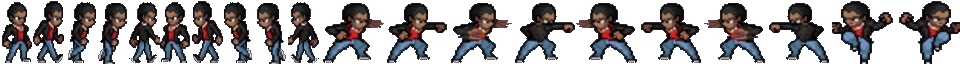
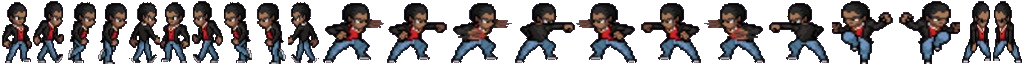
Added hurt for enemies
- Hurt frame is displayed when enemy is hit similar to that of the
knight
- Enemy is unable to attack during this state of hurt
- Also implemented for boss class since the appropriate sprite sheet
when available will have an identical layout and size

diff --git a/main.js b/main.js
@@ -128,9 +128,7 @@ var knight = {
         // 	ATTACKING ANIMATION **************************************************************************
         // Update hero animation
         this.lastAttack += elapsed;
-        if (this.isAttacking) {
-            //walking===true so animation continues to completion of current cycle
-            //so that frame isn't frozen midcycle by still condition
+        if (this.isAttacking && !this.isHurt) {
             this.attackTimer += elapsed;
             if (this.attackTimer >= this.animDelay) {
                 // Enough time has passed to update the animation frame
@@ -143,16 +141,20 @@ var knight = {
                     this.lastAttack = 0;
                     this.isAttacking = false;
                      //Check if any enemies are in the range of the attack
-                    for (var i = 0; i < enemies.length; i++) {
-                            if (enemies[i].alive && enemies[i].health > 0 && enemies[i].inAttackingRange) {
-                                // only deduct enemy health if in range and if enemy health isn't 0
-                                enemies[i].health -= 1;
-                            }
+                    for (var i = 0; i < enemies.length; i++) { //deduct health after attack anim so that 1 health per attack is taken
+                        if (enemies[i].alive && enemies[i].health > 0 && enemies[i].inAttackingRange) {
+                            // only deduct enemy health if in range and if enemy health isn't 0
+                            enemies[i].health -= 1;
                         }
+                    }
+                }
+                for (var i = 0; i < enemies.length; i++) { // activate is hurt during attack anim so enemy can't attack during this period
+                    if (enemies[i].alive && enemies[i].health > 0 && enemies[i].inAttackingRange) {
+                        // only activate isHurt if in range and if enemy health isn't 0
+                        enemies[i].isHurt = true;
+                    }
                 }
             }
-
-           
         }
 
         // KNIGHT HURT FRAME ****************************************************************************
@@ -358,6 +360,9 @@ var enemy = {
     image: new Image(),
     imageReady: false,
     alive: true,
+    isHurt: false,
+    hurtTimer: 0,
+    hurtDelay: 200,
     health: 1,
     lastAttack: 500,
     isAttacking: false,
@@ -366,6 +371,17 @@ var enemy = {
     update: function (elapsed) {
         var distanceBetween = this.x - knight.x;
         this.lastAttack += elapsed;
+
+        // ENEMY HURT FRAME ***************************************************************************************
+        if (this.isHurt) {
+            this.hurtTimer += elapsed;
+            if (this.hurtTimer >= this.hurtDelay) {
+                //hurt frame has been showed enough
+                this.hurtTimer = 0; // Reset the animation timer
+                this.isHurt = false;
+            }
+        }
+
         // ENEMY DEATH ANIMATION *************************************************************************************
         if (this.health === 0) { 
             death.timer += elapsed;
@@ -417,7 +433,7 @@ var enemy = {
             this.walkFrame = 0; //If close enough set the frame to the beginning
             this.inAttackingRange = true;
             this.attackSet = distanceBetween < 0 ? 0 : 1;
-            if (this.lastAttack >= 500 && knight.onGround) { // in attacking range and time since last attack is 500ms
+            if (this.lastAttack >= 500 && knight.onGround && !this.isHurt) { // in attacking range and time since last attack is 500ms
                 this.attackTimer += elapsed;
                 this.isAttacking = true;
                 if (this.attackTimer >= this.animDelay) {
@@ -440,7 +456,13 @@ var enemy = {
         if (this.imageReady) {
             var spriteX, effectiveWidth = this.width, effectiveX = this.x; //effective variables for adjusting width and x to suit attack frames
             if (this.health > 0){ // if enemy is alive
-                if (!this.isAttacking || !knight.onGround) //if not attacking (i.e. walking or waiting to attack)
+                if (this.isHurt) {
+                    if (this.direction === -1)
+                        spriteX = 992;
+                    else
+                        spriteX = 960;
+                }
+                else if (!this.isAttacking || !knight.onGround) //if not attacking (i.e. walking or waiting to attack)
                     spriteX = (this.walkSet * (this.width * this.walkNumFrames)) + (this.walkFrame * this.width);
                 else if (this.isAttacking){
                     spriteX = (2 * this.walkNumFrames * this.width) + (this.attackSet * 256) + (this.attackFrame * 64);
@@ -498,12 +520,26 @@ var boss = {
     image: new Image(),
     imageReady: false,
     available: false,
+    isHurt: false,
+    hurtTimer: 0,
+    hurtDelay: 200,
     alive: true,
     health: 3,
     lastAttack: 500,
     update: function (elapsed) {
         var distanceBetween = this.x - knight.x;
         this.lastAttack += elapsed;
+
+        // ENEMY HURT FRAME ***************************************************************************************
+        if (this.isHurt) {
+            this.hurtTimer += elapsed;
+            if (this.hurtTimer >= this.hurtDelay) {
+                //hurt frame has been showed enough
+                this.hurtTimer = 0; // Reset the animation timer
+                this.isHurt = false;
+            }
+        }
+
         // ENEMY DEATH ANIMATION *************************************************************************************
         if (this.health === 0) { 
             death.timer += elapsed;
@@ -555,7 +591,7 @@ var boss = {
             this.walkFrame = 0; //If close enough set the frame to the beginning
             this.inAttackingRange = true;
             this.attackSet = distanceBetween < 0 ? 0 : 1;
-            if (this.lastAttack >= 500 && knight.onGround) { // in attacking range and time since last attack is 500ms
+            if (this.lastAttack >= 500 && knight.onGround && !this.isHurt) { // in attacking range and time since last attack is 500ms
                 this.attackTimer += elapsed;
                 this.isAttacking = true;
                 if (this.attackTimer >= this.animDelay) {
@@ -578,7 +614,13 @@ var boss = {
         if (this.imageReady) {
             var spriteX, effectiveWidth = this.width, effectiveX = this.x; //effective variables for adjusting width and x to suit attack frames
             if (this.health > 0){ // if enemy is alive
-                if (!this.isAttacking || !knight.onGround) //if not attacking (i.e. walking or waiting to attack)
+                if (this.isHurt) {
+                    if (this.direction === -1)
+                        spriteX = 992;
+                    else
+                        spriteX = 960;
+                }
+                else if (!this.isAttacking || !knight.onGround) //if not attacking (i.e. walking or waiting to attack)
                     spriteX = (this.walkSet * (this.width * this.walkNumFrames)) + (this.walkFrame * this.width);
                 else if (this.isAttacking){
                     spriteX = (2 * this.walkNumFrames * this.width) + (this.attackSet * 256) + (this.attackFrame * 64);
@@ -620,13 +662,13 @@ var handleInput = function () {
     // Stop moving the playa
     knight.direction = 0;
 
-    if (37 in keysDown) { // left arrow key
+    if (37 in keysDown && !knight.isAttacking) { // left arrow key
         knight.direction = -1;
         knight.still = false;
         knight.facing = "left";
     }
 
-    if (39 in keysDown) { // right arrow key
+    if (39 in keysDown && !knight.isAttacking) { // right arrow key
         knight.direction = 1;
         knight.still = false;
         knight.facing = "right";
